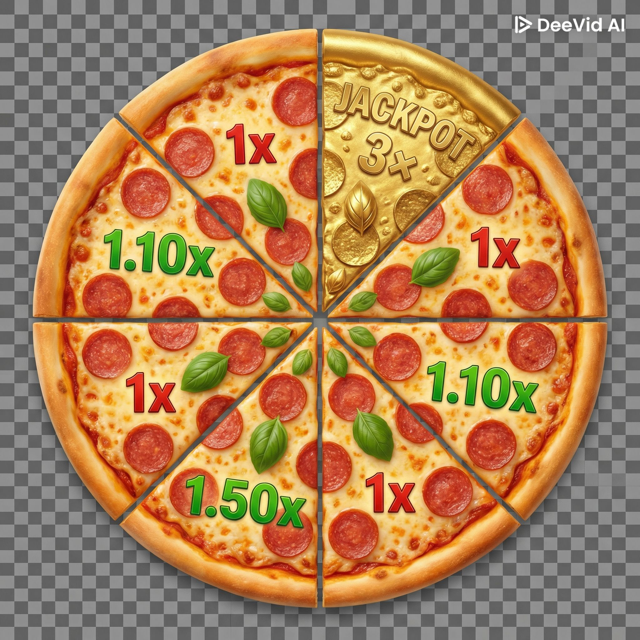
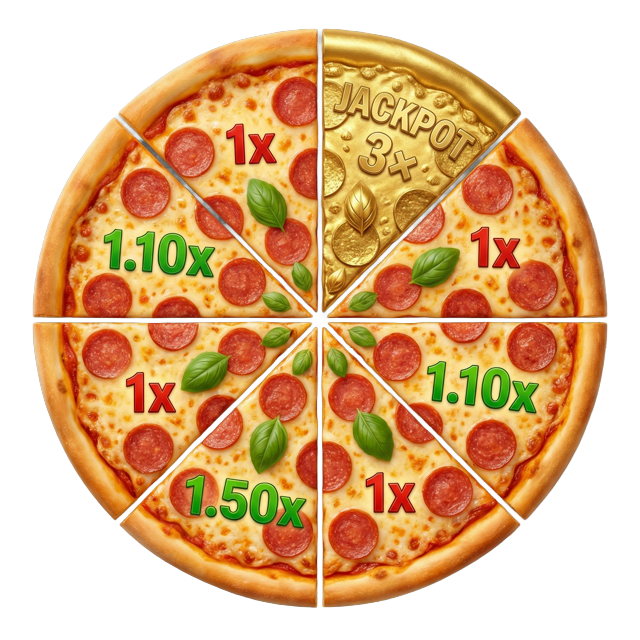
Fix Spin the Pie slice alignment for new pizza wheel asset
- Corrected slice geometry: JACKPOT is offset 22.5° from 12 o'clock
- Added SLICE_OFFSET constant (22.5°) for accurate slice centers
- Updated getTargetRotation() to include offset in calculations
- Simplified wheel container (removed extra wrappers for clean image)
- Set wheel size to 208px to fit inside 260px ring

Slice centers now match actual asset layout:
- Slice 0 (JACKPOT): 22.5° | Slice 1 (1x): 67.5°
- Slice 2 (1.10x): 112.5° | Slice 3 (1x): 157.5°
- Slice 4 (1.50x): 202.5° | Slice 5 (1x): 247.5°
- Slice 6 (1.10x): 292.5° | Slice 7 (1x): 337.5°

diff --git a/app/components/StakingPage.tsx b/app/components/StakingPage.tsx
@@ -61,41 +61,44 @@ const SPIN_OUTCOMES = [
 // SPIN THE PIE - WHEEL GEOMETRY & SLICE MAPPING
 // ==================================================================================
 // The pizza wheel has 8 slices, pointer is at 12 o'clock (top)
-// Slices are numbered 0-7 clockwise starting from top
+// IMPORTANT: The 12 o'clock cut line is a slice BOUNDARY, not a slice center
+// The JACKPOT slice sits immediately to the RIGHT of that line
+// Therefore all slice centers are OFFSET by 22.5° (half a slice)
 //
-// Visual layout of pizza_wheel.png:
-//   Slice 0 (0°-45°):   JACKPOT 3x  - top
-//   Slice 1 (45°-90°):  1x Regular  - top-right
-//   Slice 2 (90°-135°): 1.10x Loaded - right
-//   Slice 3 (135°-180°): 1x Regular - bottom-right
-//   Slice 4 (180°-225°): 1.50x Hot  - bottom
-//   Slice 5 (225°-270°): 1x Regular - bottom-left
-//   Slice 6 (270°-315°): 1.10x Loaded - left
-//   Slice 7 (315°-360°): 1x Regular - top-left
+// Visual layout of pizza_wheel.png (slice centers, clockwise from top):
+//   Slice 0: JACKPOT 3x   - center @ 22.5°  (top-right area)
+//   Slice 1: 1x Regular   - center @ 67.5°  (right)
+//   Slice 2: 1.10x Loaded - center @ 112.5° (bottom-right)
+//   Slice 3: 1x Regular   - center @ 157.5° (bottom)
+//   Slice 4: 1.50x Hot    - center @ 202.5° (bottom-left)
+//   Slice 5: 1x Regular   - center @ 247.5° (left)
+//   Slice 6: 1.10x Loaded - center @ 292.5° (top-left)
+//   Slice 7: 1x Regular   - center @ 337.5° (near top)
 
 const SLICE_COUNT = 8
 const SLICE_ANGLE = 360 / SLICE_COUNT // 45° per slice
+const SLICE_OFFSET = SLICE_ANGLE / 2   // 22.5° - slices are offset from 12 o'clock
 
 // Maps each outcome to valid slice indices on the wheel
 // When outcome is determined, we pick one of these slices to land on
 const OUTCOME_TO_SLICES: Record<string, number[]> = {
   'Regular Slice': [1, 3, 5, 7],      // Four 1x slices
   'Loaded Slice': [2, 6],              // Two 1.10x slices
-  'Hot Out the Oven': [4],             // One 1.50x slice (bottom)
-  'JACKPOT': [0],                      // One 3x slice (top)
+  'Hot Out the Oven': [4],             // One 1.50x slice (bottom-left)
+  'JACKPOT': [0],                      // One 3x slice (top-right)
 }
 
 // Calculate the rotation needed to land a specific slice under the pointer (top)
 // sliceIndex: which slice (0-7) to land on
 // fullSpins: number of complete rotations for dramatic effect
 function getTargetRotation(sliceIndex: number, fullSpins: number = 4): number {
-  // Center of the target slice (in degrees from 0)
-  const sliceCenterAngle = sliceIndex * SLICE_ANGLE + SLICE_ANGLE / 2
+  // Center of the target slice - includes the 22.5° offset because
+  // the JACKPOT slice is to the RIGHT of 12 o'clock, not centered on it
+  const sliceCenterAngle = sliceIndex * SLICE_ANGLE + SLICE_OFFSET
 
-  // To land this slice at the top (pointer), we need to rotate the wheel
-  // so the slice center aligns with 0° (top)
-  // Since wheel rotates clockwise, we subtract from 360
-  const targetAngle = (360 - sliceCenterAngle + 360) % 360
+  // To land this slice at the top (pointer at 0°), rotate the wheel
+  // so the slice center aligns with the pointer
+  const targetAngle = 360 - sliceCenterAngle
 
   // Add full rotations for visual effect
   return fullSpins * 360 + targetAngle
@@ -1452,7 +1455,7 @@ export default function StakingPage({
 
               {/* Wheel Container */}
               <div className="relative mx-auto mb-4" style={{ width: 260, height: 260 }}>
-                {/* Outer Ring (static - behind) */}
+                {/* Outer Ring (static - contains pointer at top) */}
                 <div className="absolute inset-0 flex items-center justify-center">
                   <Image
                     src="/images/Pizza-Ring.png"
@@ -1463,7 +1466,7 @@ export default function StakingPage({
                   />
                 </div>
 
-                {/* Pizza Wheel (spins - on top) */}
+                {/* Pizza Wheel (spins inside the ring) */}
                 <div
                   className="absolute inset-0 flex items-center justify-center z-10"
                   style={{
@@ -1473,27 +1476,13 @@ export default function StakingPage({
                     transitionTimingFunction: 'cubic-bezier(0.17, 0.67, 0.12, 0.99)',
                   }}
                 >
-                  <div
-                    style={{
-                      width: 240,
-                      height: 240,
-                      borderRadius: '50%',
-                      overflow: 'hidden',
-                      backgroundColor: '#f5d6a8',
-                    }}
-                  >
-                    <Image
-                      src="/images/pizza_wheel.png"
-                      alt="Pizza Wheel"
-                      width={240}
-                      height={240}
-                      priority
-                      style={{
-                        display: 'block',
-                        objectFit: 'cover',
-                      }}
-                    />
-                  </div>
+                  <Image
+                    src="/images/pizza_wheel.png"
+                    alt="Pizza Wheel"
+                    width={208}
+                    height={208}
+                    priority
+                  />
                 </div>
               </div>
 
